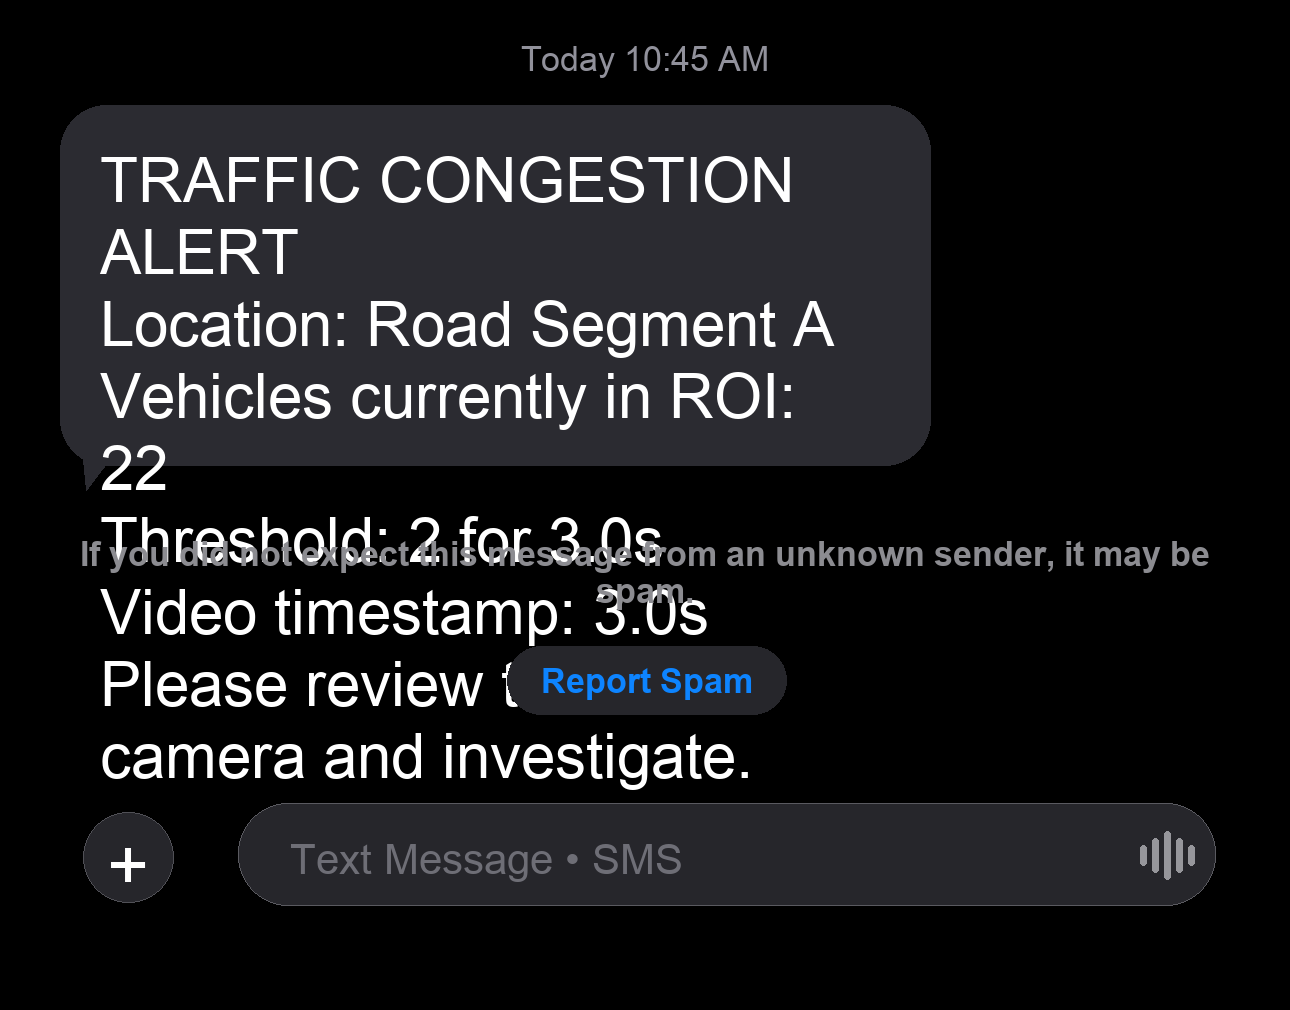
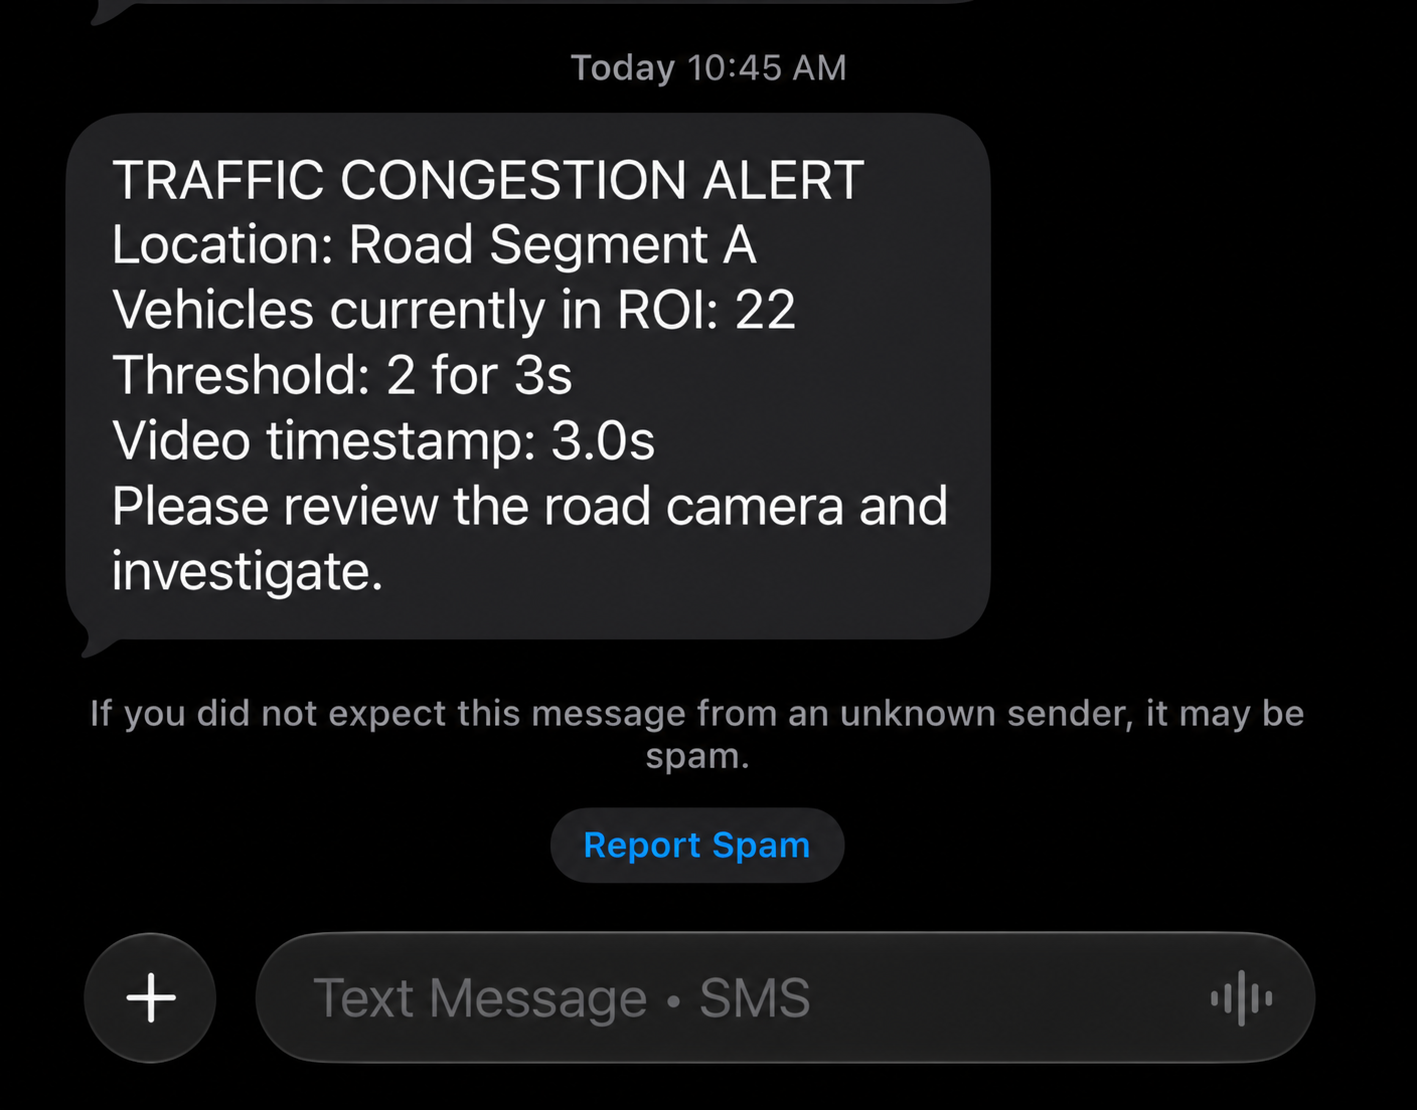
docs: fix SMS showcase image and dimensions

diff --git a/README.md b/README.md
@@ -44,7 +44,7 @@ SMS notification containing the road name, vehicle occupancy,
 threshold, and video timestamp.
 
 <p align="center">
-  <img src="docs/assets/twilio_sms_mockup.png" alt="Twilio SMS alert preview" width="35%" />
+  <img src="docs/assets/twilio_sms_mockup.png" alt="RoadWatch SMS alert example (mockup)" width="45%" />
 </p>
 
 **Integration status:** RoadWatch supports Twilio-based SMS alert generation
